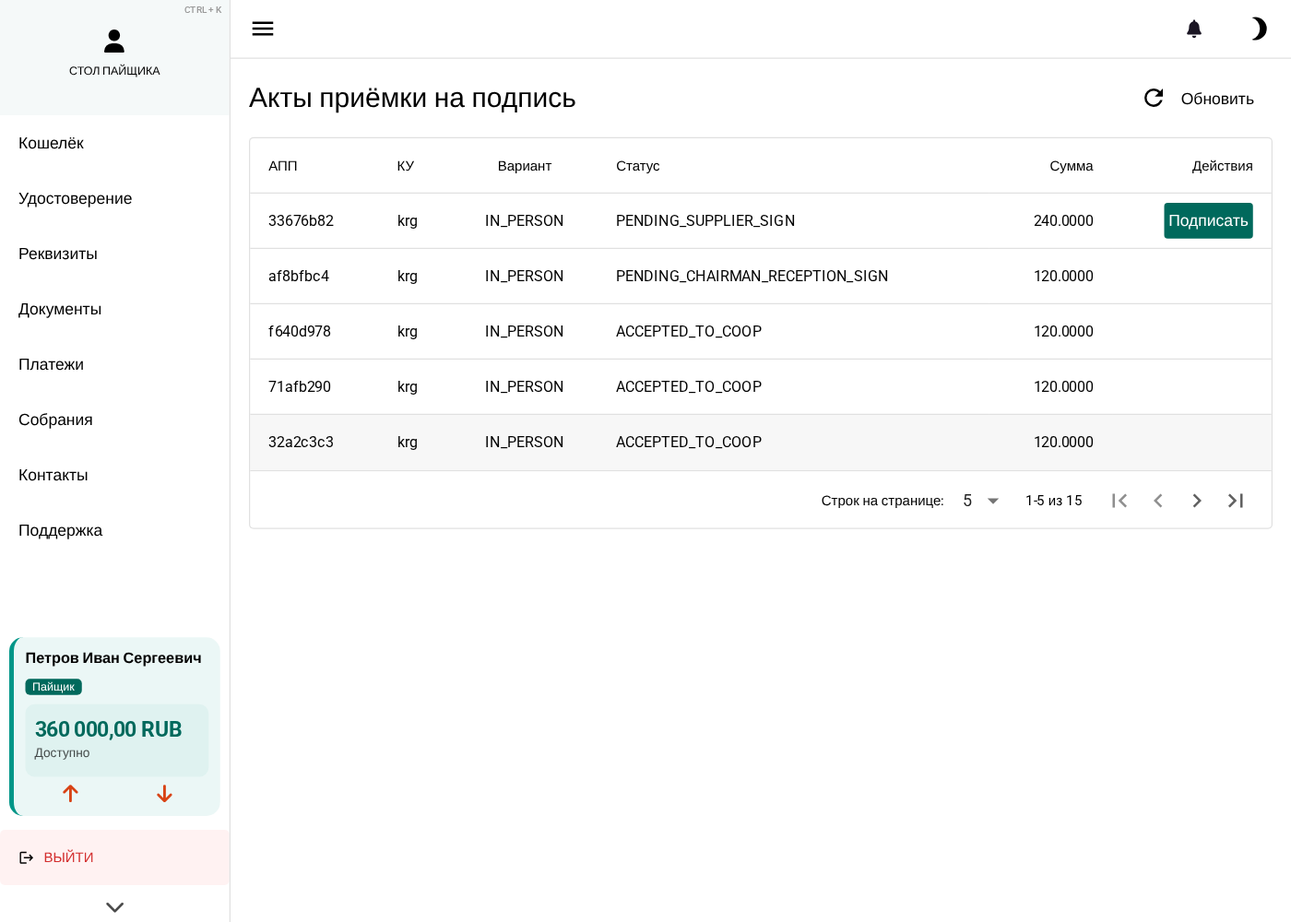
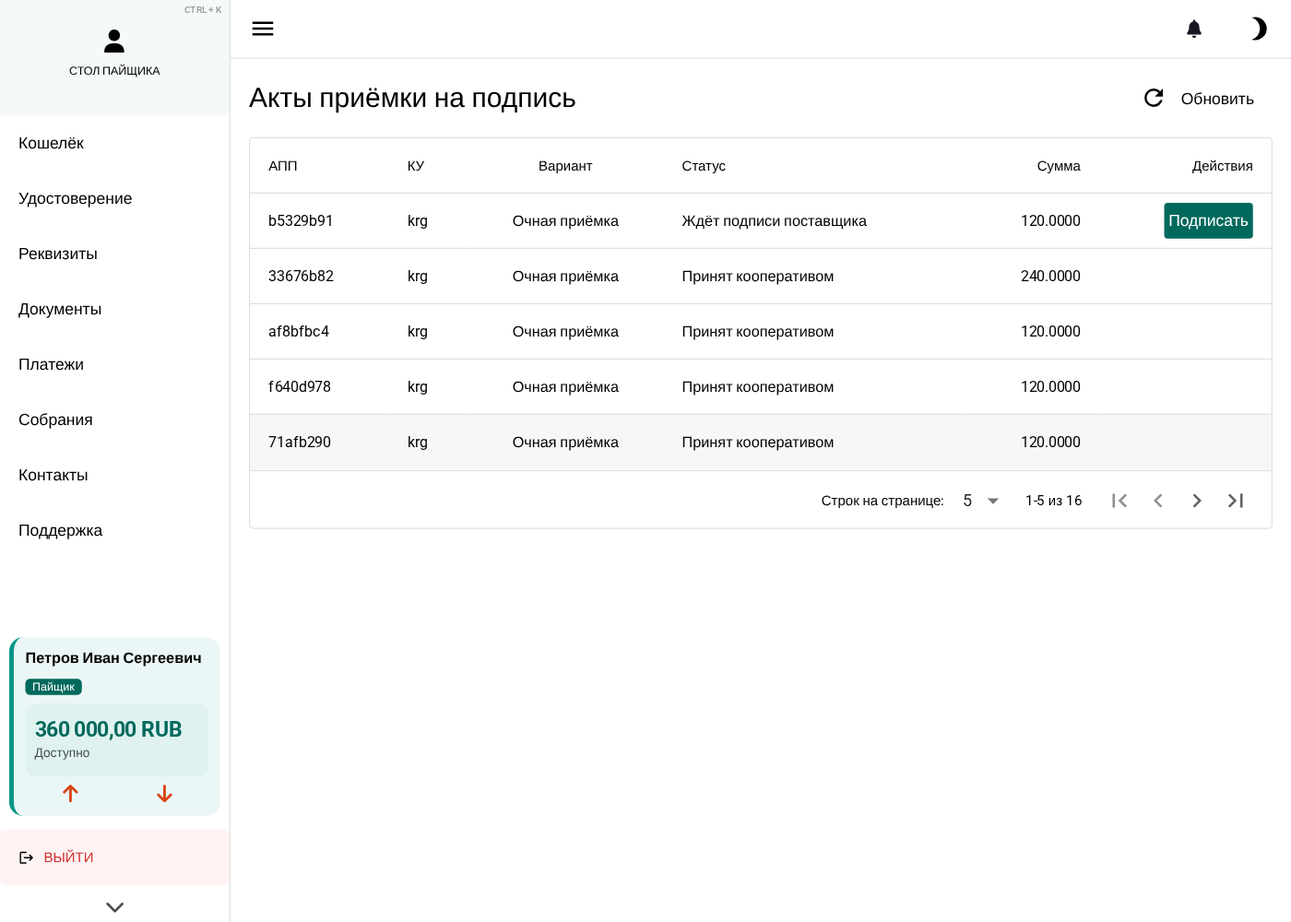
docs(marketplace): локализованные скриншоты и проза приёмок на состоянии магистрали II
Пересняты на зелёной сборке с фиксом доступа председателя КУ: закрывающая
подпись приёмки, первая подпись поставщика, создание АПП — таблицы и диалоги
с русскими подписями статусов/вариантов. Проза приведена к подписям UI,
убран on-chain-жаргон (signchair/композитная транзакция). Обновлены
скриншоты выплат и выдачи.

diff --git a/components/docs/docs/new/marketplace/operator/apl-reception-chairman-sign.md b/components/docs/docs/new/marketplace/operator/apl-reception-chairman-sign.md
@@ -6,28 +6,28 @@ scenario: marketplace/operator/apl-reception-chairman-sign
 
 # Стол ПВЗ — закрывающая подпись приёмки
 
-Закрывающая (вторая) подпись акта приёма-передачи имущества председателем кооперативного участка — седьмой шаг магистрального потока «Стол заказов». Поставщик уже подписал акт первой подписью (шаг 6); председатель КУ накладывает свою подпись поверх, и партия принимается в кооператив. On-chain это действие `signchair`, которое одной композитной транзакцией фиксирует приёмку и инициирует выплаты поставщику.
+Закрывающая (вторая) подпись акта приёма-передачи имущества председателем кооперативного участка — седьмой шаг магистрального потока «Стол заказов». Поставщик уже подписал акт первой подписью (шаг 6); председатель КУ накладывает свою подпись поверх, и партия принимается в кооператив. Этой же подписью кооператив фиксирует приёмку и инициирует выплату поставщику.
 
 !!! info "Канон двух подписей"
     Председатель подписывает **тот же** документ, что подписал поставщик, — система не перегенерирует акт. Backend отдаёт исходный документ вместе с уже наложенной подписью поставщика, а клиент добавляет вторую подпись ключом активной сессии. Это гарантирует, что обе стороны заверили один и тот же текст.
 
 ## Шаг 1. Лента приёмки партий
 
-![Стол «Приёмка партии» председателя КУ Красногорск (`braname=krg`). В таблице — акты приёмки партий; для АПП в статусе PENDING_CHAIRMAN_RECEPTION_SIGN (поставщик уже подписал, шаг 6) доступна кнопка «Подписать председателем».](/assets/new/marketplace/operator/apl-reception-chairman-sign/01-reception-list.png)
+![Стол «Приёмка партии» председателя КУ Красногорск (`braname=krg`). Наверху списка — акты в статусе «Ждёт подписи председателя КУ» (поставщик уже подписал, шаг 6) с кнопкой «Подписать председателем»; ниже — уже принятые партии.](/assets/new/marketplace/operator/apl-reception-chairman-sign/01-reception-list.png)
 
-Откройте стол «Приёмка партии» и загрузите акты своего кооперативного участка, указав его идентификатор (здесь — `krg`). В таблице видны акты приёма-передачи с вариантом приёмки, статусом и суммой. Для актов в статусе `PENDING_CHAIRMAN_RECEPTION_SIGN` — тех, где поставщик уже поставил свою подпись, — в строке доступна кнопка **«Подписать председателем»**.
+Откройте стол «Приёмка партии» и загрузите акты своего кооперативного участка, указав его идентификатор (здесь — `krg`). Акты, ожидающие вашей подписи, всплывают наверх списка — для них в статусе **«Ждёт подписи председателя КУ»** (поставщик уже поставил свою подпись) доступна кнопка **«Подписать председателем»**. Ниже идут уже принятые партии со статусом «Принят кооперативом». В таблице видны вариант приёмки («Очная приёмка» / «Через экспедитора»), статус и сумма.
 
 ## Шаг 2. Диалог закрывающей подписи
 
 ![Диалог закрывающей подписи: поставщик уже подписал акт(ы) приёмки, председатель накладывает закрывающую подпись поверх ключом активной сессии — документ не перегенерируется. После подписи партия принимается в кооператив.](/assets/new/marketplace/operator/apl-reception-chairman-sign/02-chairman-sign-dialog.png)
 
-В диалоге указаны номер акта, кооперативный участок, вариант приёмки и сумма к приёмке. Зелёный баннер поясняет суть действия: поставщик уже подписал, председатель накладывает закрывающую подпись поверх его подписи ключом текущей сессии. Нажмите **«Подписать председателем»** — для каждого заказа партии будет сформирована вторая подпись и отправлена на блокчейн.
+В диалоге указаны номер акта, кооперативный участок, вариант приёмки и сумма к приёмке. Зелёный баннер поясняет суть действия: поставщик уже подписал, председатель накладывает закрывающую подпись поверх его подписи ключом текущей сессии. Нажмите **«Подписать председателем»** — для каждого заказа партии будет наложена ваша закрывающая подпись, и партия примется в кооператив.
 
 ## Шаг 3. Партия принята в кооператив
 
-![После закрывающей подписи председателя: Notify «Акт приёмки закрыт подписью председателя. Партия принята в кооператив» (positive). On-chain прошёл `signchair` с обеими подписями, АПП → ACCEPTED_TO_COOP.](/assets/new/marketplace/operator/apl-reception-chairman-sign/03-reception-accepted.png)
+![После закрывающей подписи председателя: уведомление «Акт приёмки закрыт подписью председателя. Партия принята в кооператив». Подписанный акт уходит вниз списка со статусом «Принят кооперативом», а наверху остаётся следующий акт, ждущий подписи.](/assets/new/marketplace/operator/apl-reception-chairman-sign/03-reception-accepted.png)
 
-После успешной транзакции появляется уведомление «Акт приёмки закрыт подписью председателя. Партия принята в кооператив», а статус акта в таблице меняется на `ACCEPTED_TO_COOP`. Имущество учтено на складе участка; дальше оператор маркирует его штрих-кодом (шаг 8).
+После успешной подписи появляется уведомление «Акт приёмки закрыт подписью председателя. Партия принята в кооператив», а статус акта в таблице меняется на **«Принят кооперативом»**. Имущество учтено на складе участка; дальше оператор маркирует его штрих-кодом (шаг 8).
 
 !!! note "Что дальше"
     Принятое имущество готово к маркировке и последующей выдаче пайщикам. Выплата поставщику инициируется автоматически этой же транзакцией закрывающей подписи.

diff --git a/components/docs/docs/new/marketplace/operator/issuance-finalize.md b/components/docs/docs/new/marketplace/operator/issuance-finalize.md
@@ -6,16 +6,16 @@ scenario: marketplace/operator/issuance-finalize
 
 # Стол ПВЗ — финальная подпись выдачи
 
-Выдача имущества пайщику с финальной подписью заказчика — десятый, завершающий шаг магистрального потока «Стол заказов». Председатель КУ уже открыл выдачу первой подписью (шаг 9, `signiss1`); на ПВЗ оператор сверяет имущество по штрих-коду и факту, после чего заказчик ставит вторую, финальную подпись (`signiss2`) — имущество переходит к нему, статус заказа становится `RECEIVED`.
+Выдача имущества пайщику с финальной подписью заказчика — десятый, завершающий шаг магистрального потока «Стол заказов». Председатель КУ уже открыл выдачу первой подписью (шаг 9); на ПВЗ оператор сверяет имущество по штрих-коду и факту, после чего заказчик ставит вторую, финальную подпись — имущество переходит к нему, заказ получает статус **«Получен»**.
 
 !!! info "Канон двух подписей выдачи"
-    Финальную подпись ставит **ключ заказчика-владельца заказа** — это его согласие получить имущество. Заказчик подписывает на устройстве оператора (либо сканирует QR со своим ключом) тот же акт, который председатель подписал при открытии выдачи; документ не перегенерируется. Backend авторизует операцию по подписи заказчика в документе, а композитная транзакция `signiss2` атомарно проводит потребление через транзит счёта 91.
+    Финальную подпись ставит **ключ заказчика-владельца заказа** — это его согласие получить имущество. Заказчик подписывает на устройстве оператора (либо сканирует QR со своим ключом) тот же акт, который председатель подписал при открытии выдачи; документ не перегенерируется. Согласие заказчика, выраженное его подписью на документе, разом проводит и подтверждение получения, и расчёт за выданное имущество.
 
 ## Шаг 1. Лента выдач
 
-![Лента выдач председателя КУ Красногорск (`braname=krg`). Заказы в статусе ACCEPTED_TO_COOP ждут открытия (кнопка «Открыть выдачу»), в READY_TO_RECEIVE — финальной подписи заказчика (кнопка «Завершить выдачу»).](/assets/new/marketplace/operator/issuance-finalize/01-issuance-list.png)
+![Лента выдач председателя КУ Красногорск (участок `krg`). Заказы со статусом «Принят кооперативом» ждут открытия (кнопка «Открыть выдачу»), со статусом «Готов к выдаче» — финальной подписи заказчика (кнопка «Завершить выдачу»).](/assets/new/marketplace/operator/issuance-finalize/01-issuance-list.png)
 
-Загрузите ленту выдач кооперативного участка по его идентификатору. Заказы в статусе `ACCEPTED_TO_COOP` ждут открытия выдачи (кнопка «Открыть выдачу», шаг 9), а заказы в `READY_TO_RECEIVE` готовы к завершению — для них доступна кнопка **«Завершить выдачу»**.
+Загрузите ленту выдач кооперативного участка по его идентификатору. Заказы со статусом **«Принят кооперативом»** ждут открытия выдачи (кнопка «Открыть выдачу», шаг 9), а заказы со статусом **«Готов к выдаче»** можно завершить — для них доступна кнопка **«Завершить выдачу»**.
 
 ## Шаг 2. Сверка штрих-кода
 
@@ -37,9 +37,9 @@ scenario: marketplace/operator/issuance-finalize
 
 ## Шаг 5. Заказ выдан
 
-![После финальной подписи: Notify «Заказ выдан. Статус заказа — RECEIVED» (positive). On-chain прошёл `signiss2` с обеими подписями (председатель + заказчик), заказ → RECEIVED.](/assets/new/marketplace/operator/issuance-finalize/05-issuance-received.png)
+![После финальной подписи: уведомление «Заказ выдан. Статус заказа — Получен». Под актом стоят обе подписи — председателя и заказчика; имущество перешло к пайщику.](/assets/new/marketplace/operator/issuance-finalize/05-issuance-received.png)
 
-После успешной транзакции появляется уведомление «Заказ выдан. Статус заказа — RECEIVED», и заказ исчезает из ленты готовых к выдаче. On-chain прошёл `signiss2` с обеими подписями; имущество перешло к пайщику. На этом магистральный поток «Стол заказов» завершён.
+После успешной подписи появляется уведомление «Заказ выдан», заказ получает статус **«Получен»** и исчезает из ленты готовых к выдаче. Под актом стоят обе подписи — председателя и заказчика; имущество перешло к пайщику. На этом магистральный поток «Стол заказов» завершён.
 
 !!! warning "Недостаточно средств при доплате"
-    Если факт больше заказа и на доплату разницы не хватает доступных средств пайщика, транзакция `signiss2` не пройдёт целиком и вернёт явное сообщение — отрицательный баланс в системе не допускается.
+    Если факт больше заказа и на доплату разницы не хватает доступных средств пайщика, выдача не завершится и вернёт явное сообщение — отрицательный баланс в системе не допускается.

diff --git a/components/docs/docs/new/marketplace/offerer/apl-reception-sign.md b/components/docs/docs/new/marketplace/offerer/apl-reception-sign.md
@@ -6,25 +6,25 @@ scenario: marketplace/offerer/apl-reception-sign
 
 # Стол поставщика — подпись приёмки
 
-Первая подпись акта приёма-передачи имущества поставщиком — шестой шаг магистрального потока «Стол заказов». Оператор кооперативного участка формирует акт на партию (шаг 5), после чего поставщик-владелец предложений заверяет его своей подписью со своего рабочего стола. On-chain это действие `signsupp`; после него акт ждёт закрывающую подпись председателя КУ (шаг 7).
+Первая подпись акта приёма-передачи имущества поставщиком — шестой шаг магистрального потока «Стол заказов». Оператор кооперативного участка формирует акт на партию (шаг 5), после чего поставщик заверяет его своей подписью со своего рабочего стола. После подписи поставщика акт ждёт закрывающую подпись председателя КУ (шаг 7).
 
 ## Шаг 1. Акты приёмки на подпись
 
-![Стол «Акты приёмки на подпись» поставщика. В таблице — АПП в статусе PENDING_SUPPLIER_SIGN, сформированный оператором КУ; справа кнопка «Подписать».](/assets/new/marketplace/offerer/apl-reception-sign/01-apl-receptions-pending.png)
+![Стол «Акты приёмки на подпись» поставщика. В таблице — акт со статусом «Ждёт подписи поставщика», сформированный оператором КУ; справа кнопка «Подписать».](/assets/new/marketplace/offerer/apl-reception-sign/01-apl-receptions-pending.png)
 
-На столе «Акты приёмки на подпись» поставщик видит акты, сформированные операторами кооперативных участков по его партиям. Для акта в статусе `PENDING_SUPPLIER_SIGN` в строке доступна кнопка **«Подписать»**. В таблице показаны кооперативный участок-получатель, вариант приёмки и сумма.
+На столе «Акты приёмки на подпись» поставщик видит акты, сформированные операторами кооперативных участков по его партиям. Для акта со статусом **«Ждёт подписи поставщика»** в строке доступна кнопка **«Подписать»**. В таблице показаны кооперативный участок-получатель, вариант приёмки («Очная приёмка» — поставщик сдаёт партию лично, либо «Через экспедитора») и сумма.
 
 ## Шаг 2. Диалог подписи
 
-![Диалог подписи акта приёмки: поставщик подтверждает подпись ключом текущей сессии как владелец Offer'ов. Показаны КУ, вариант и сумма к приёмке.](/assets/new/marketplace/offerer/apl-reception-sign/02-sign-dialog.png)
+![Диалог подписи акта приёмки: поставщик подтверждает подпись ключом текущей сессии как владелец предложений. Показаны КУ, вариант и сумма к приёмке.](/assets/new/marketplace/offerer/apl-reception-sign/02-sign-dialog.png)
 
 В диалоге указаны участок, вариант приёмки и сумма к приёмке. Поставщик подтверждает подпись ключом текущей сессии — отдельный акт подписывается на каждый заказ партии. Нажмите **«Подписать»**.
 
 ## Шаг 3. Акт подписан поставщиком
 
-![После подписи: Notify «Акт приёмки подписан». АПП переходит в PENDING_CHAIRMAN_RECEPTION_SIGN, on-chain `signsupp` зафиксирован per-Order; теперь ожидается закрывающая подпись председателя КУ.](/assets/new/marketplace/offerer/apl-reception-sign/03-signed.png)
+![После подписи: уведомление «Акт приёмки подписан». Статус акта меняется на «Ждёт подписи председателя КУ»; теперь ожидается закрывающая подпись председателя кооперативного участка.](/assets/new/marketplace/offerer/apl-reception-sign/03-signed.png)
 
-После успешной транзакции появляется уведомление «Акт приёмки подписан. Ожидается закрывающая подпись председателя КУ», а статус акта меняется на `PENDING_CHAIRMAN_RECEPTION_SIGN`. Подпись поставщика зафиксирована на блокчейне по каждому заказу партии.
+После успешной подписи появляется уведомление «Акт приёмки подписан. Ожидается закрывающая подпись председателя КУ», а статус акта меняется на **«Ждёт подписи председателя КУ»**. Подпись поставщика фиксируется по каждому заказу партии.
 
 !!! note "Что дальше"
     Теперь акт ждёт закрывающую подпись председателя кооперативного участка (шаг 7). До этого момента имущество ещё не считается принятым в кооператив.

diff --git a/components/docs/docs/new/marketplace/offerer/payments.md b/components/docs/docs/new/marketplace/offerer/payments.md
@@ -12,4 +12,4 @@ scenario: marketplace/offerer/payments
 
 ![Таблица выплат: дата, сумма, валюта, статус, банковский референс и назначение](/assets/new/marketplace/offerer/payments/01-payments.png)
 
-Таблица содержит колонки: **Дата**, **Сумма**, **Валюта**, **Статус**, **Референс банка** и **Назначение**. В назначении указан заказ, по которому идёт выплата («Выплата поставщику … по заказу …»). Статус **«Ожидает»** означает, что запрос сформирован, но кооператив ещё не провёл платёж. Список постраничный — внизу переключатель числа строк и навигация по страницам.
+Таблица содержит колонки: **Дата**, **Сумма**, **Валюта**, **Статус**, **Референс банка** и **Назначение**. В назначении указан заказ, по которому идёт выплата («Выплата поставщику … по заказу …»). Статус **«Ожидает оплаты»** означает, что запрос сформирован, но кооператив ещё не провёл платёж. Список постраничный — внизу переключатель числа строк и навигация по страницам.
